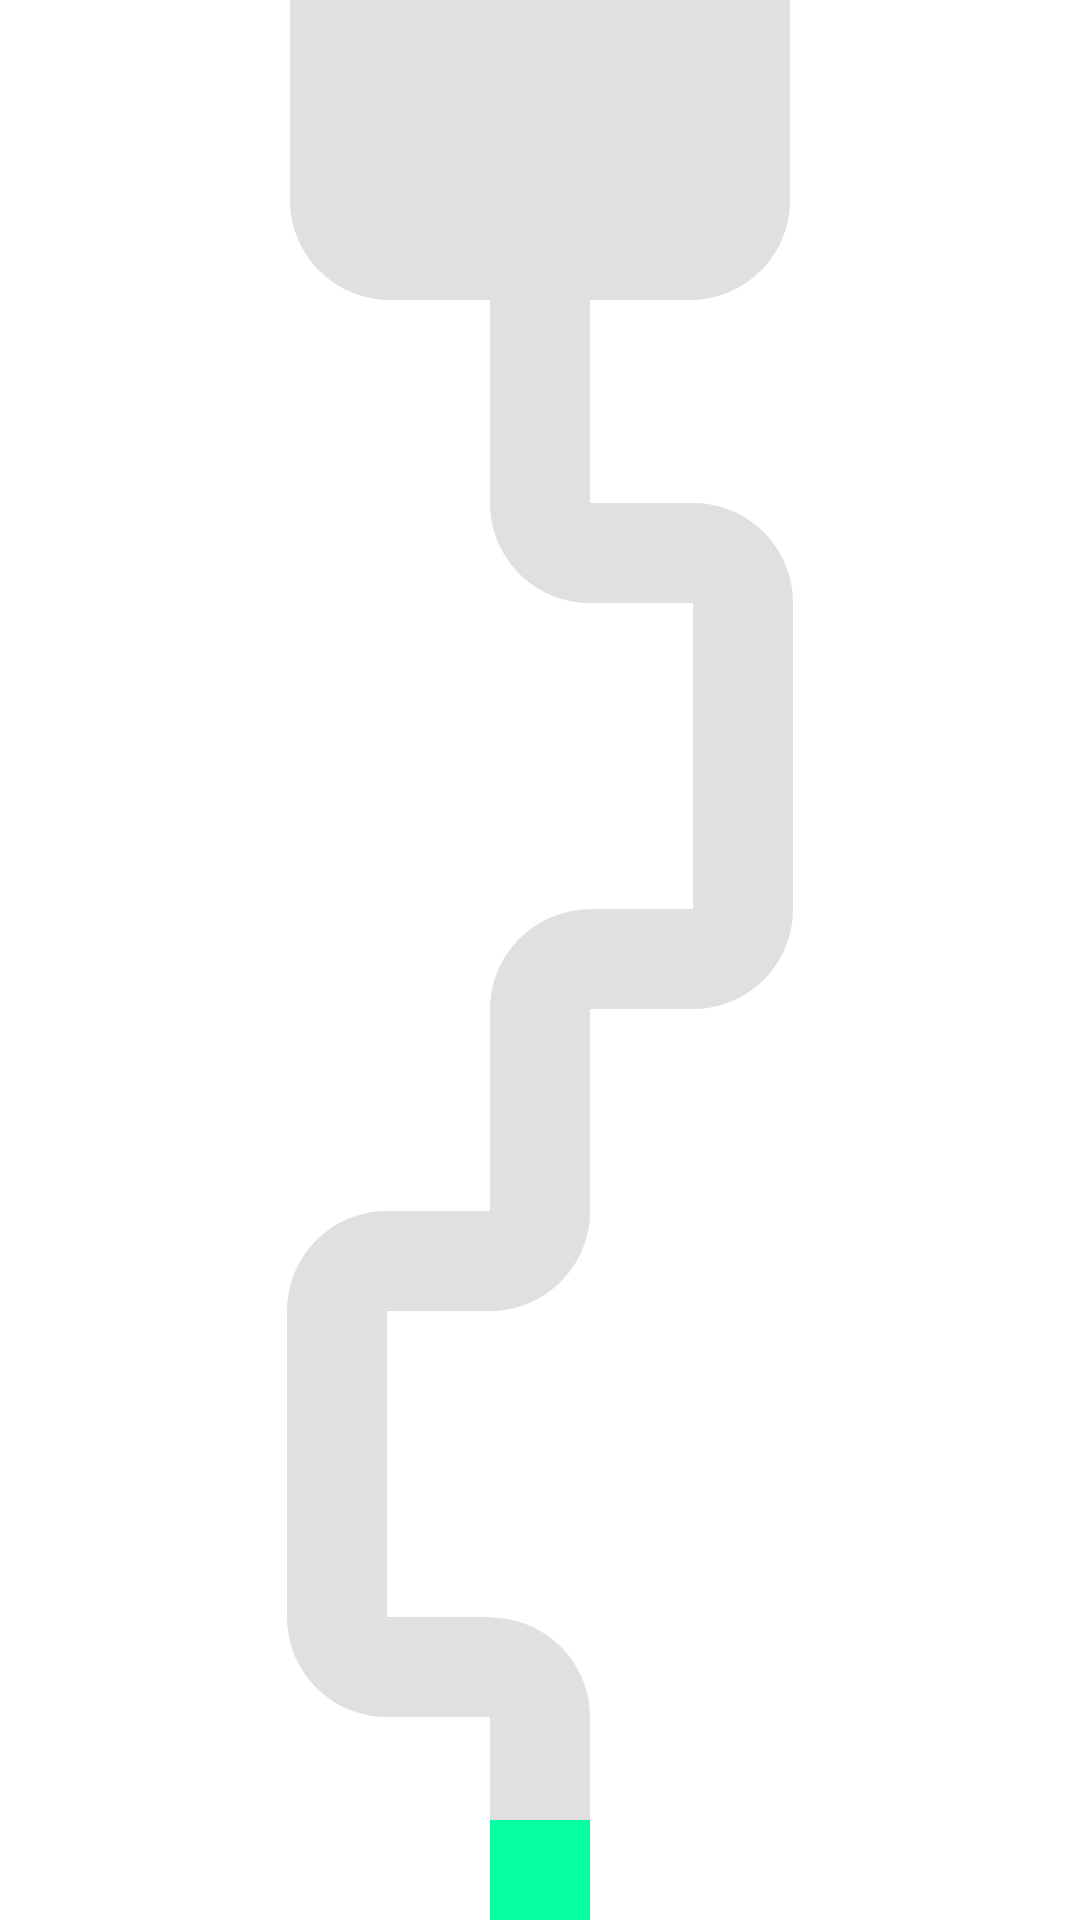
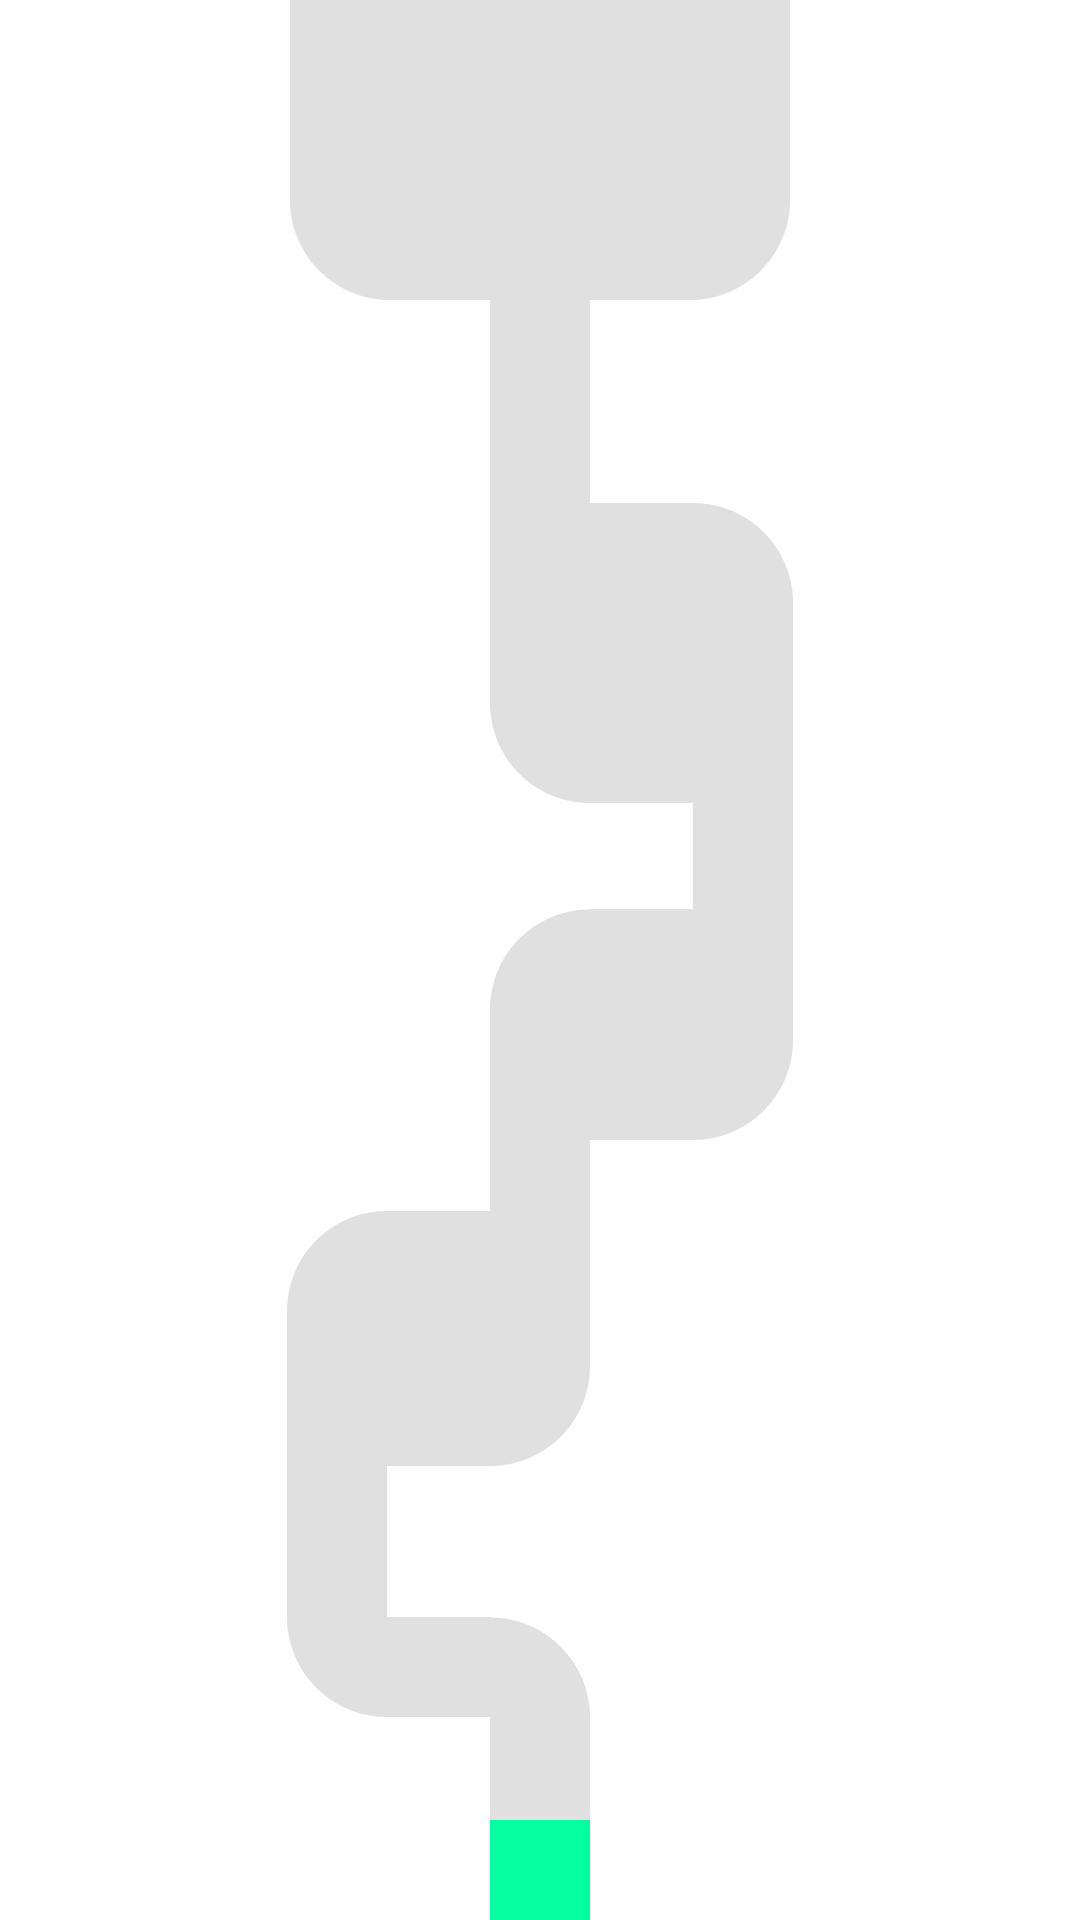
collision fix

Changed region(s): [[0.4278, 0.2812, 0.6417, 0.4375], [0.3361, 0.6562, 0.55, 0.7812], [0.5194, 0.5, 0.7333, 0.5938]]

diff --git a/game2.js b/game2.js
@@ -15,6 +15,12 @@ function setup() {
   levels.push(loadImage("./levels/lvl4.png"));
   levels.push(loadImage("./levels/lvl4-2.png"));
   levels.push(loadImage("./levels/lvl4-3.png"));
+  levels.push(loadImage("./levels/lvl5.png"));
+  levels.push(loadImage("./levels/lvl5-2.png"));
+  levels.push(loadImage("./levels/lvl5-3.png"));
+  levels.push(loadImage("./levels/lvl6.png"));
+  levels.push(loadImage("./levels/lvl6-2.png"));
+  levels.push(loadImage("./levels/lvl6-3.png"));
 
   console.log(levels)
 
@@ -55,7 +61,7 @@ function draw() {
   console.log(get(xpos, ypos)[1]);
   //console.log('x: ' + xpos + ' y: ' + ypos);
 
-  if((get(xpos, ypos)[1] == 175) || (get(xpos, ypos)[2] == 225)) {
+  if((get(xpos, ypos)[1] == 175) || (get(xpos, ypos)[0] == 225)) {
     console.log('dead');
     xpos = windowWidth/2;
     ypos = 30;
@@ -90,8 +96,8 @@ function draw() {
   }
 
   // draw ellipse
-  fill('#C06C84');
-  ellipse(xpos, ypos, 25, 25);
+  fill('#000000');
+  ellipse(xpos, ypos, 15, 15);
   // music
   
 
